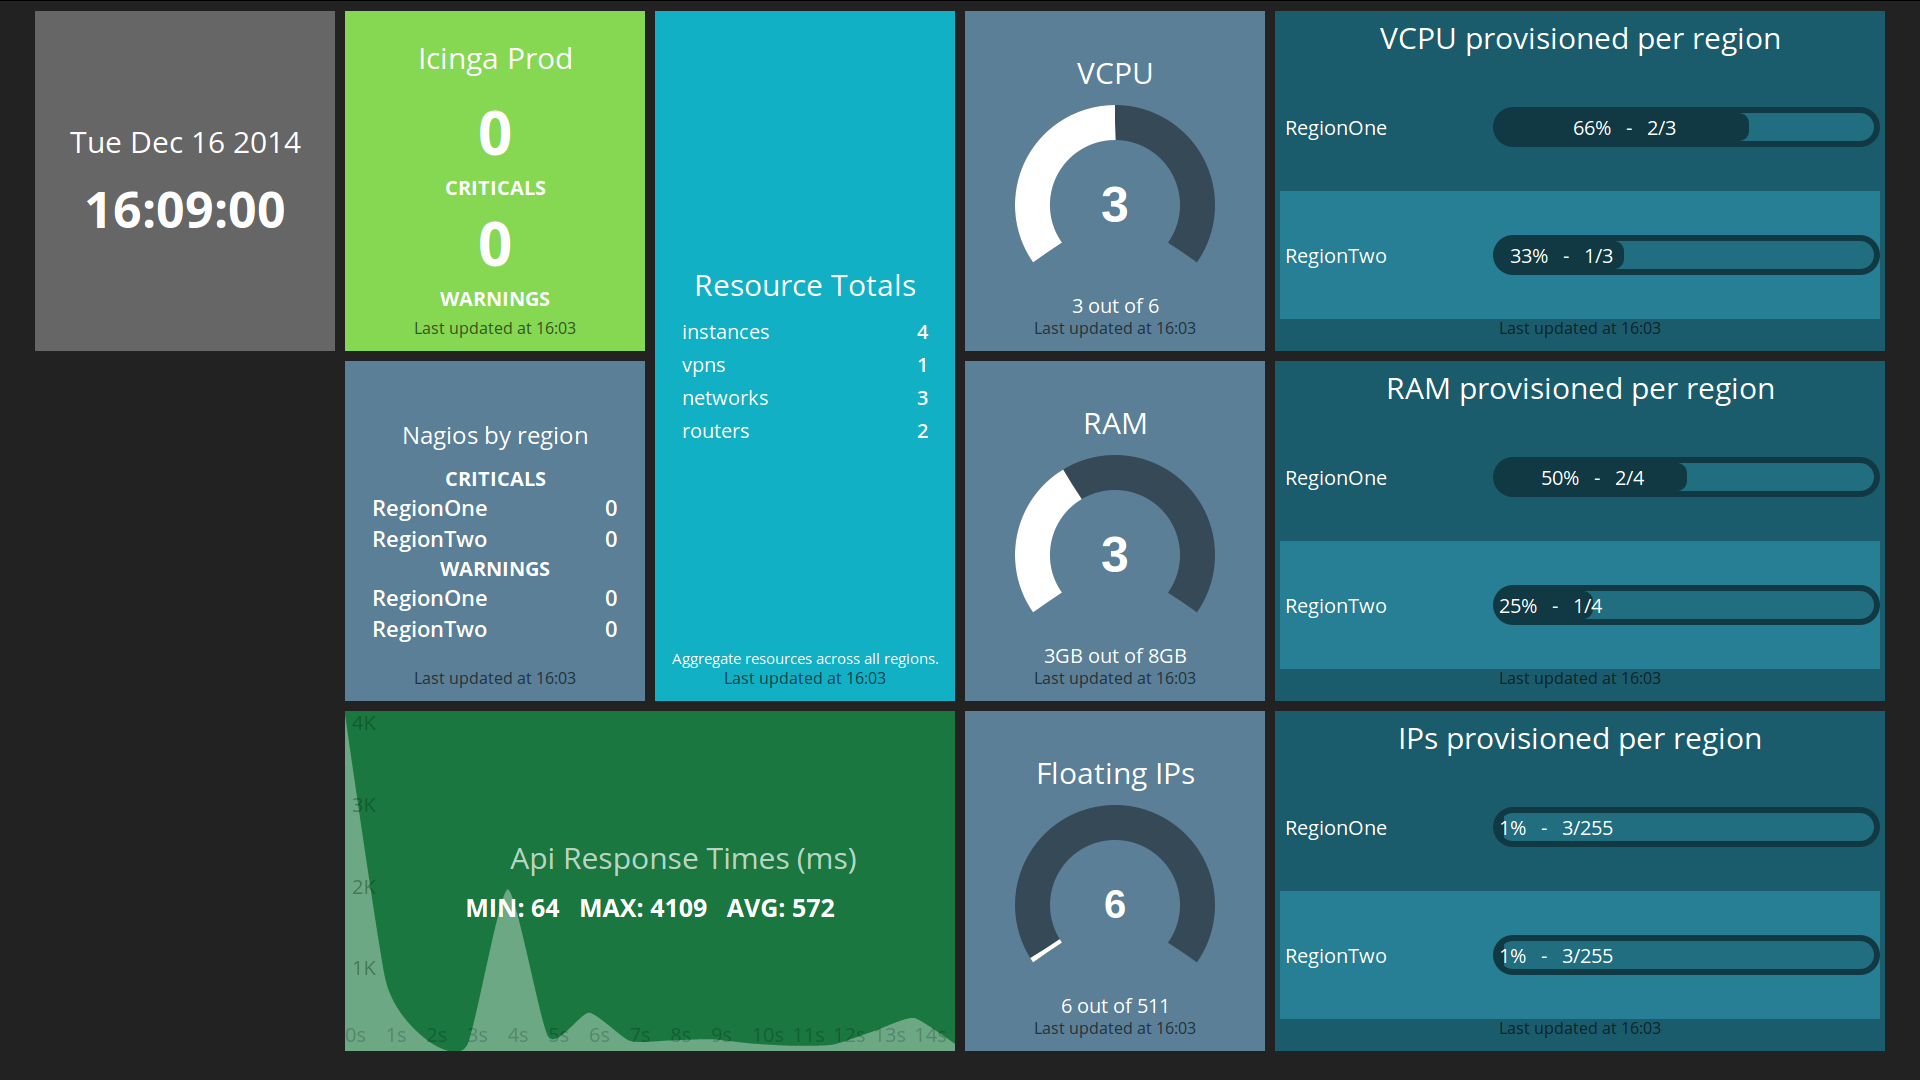
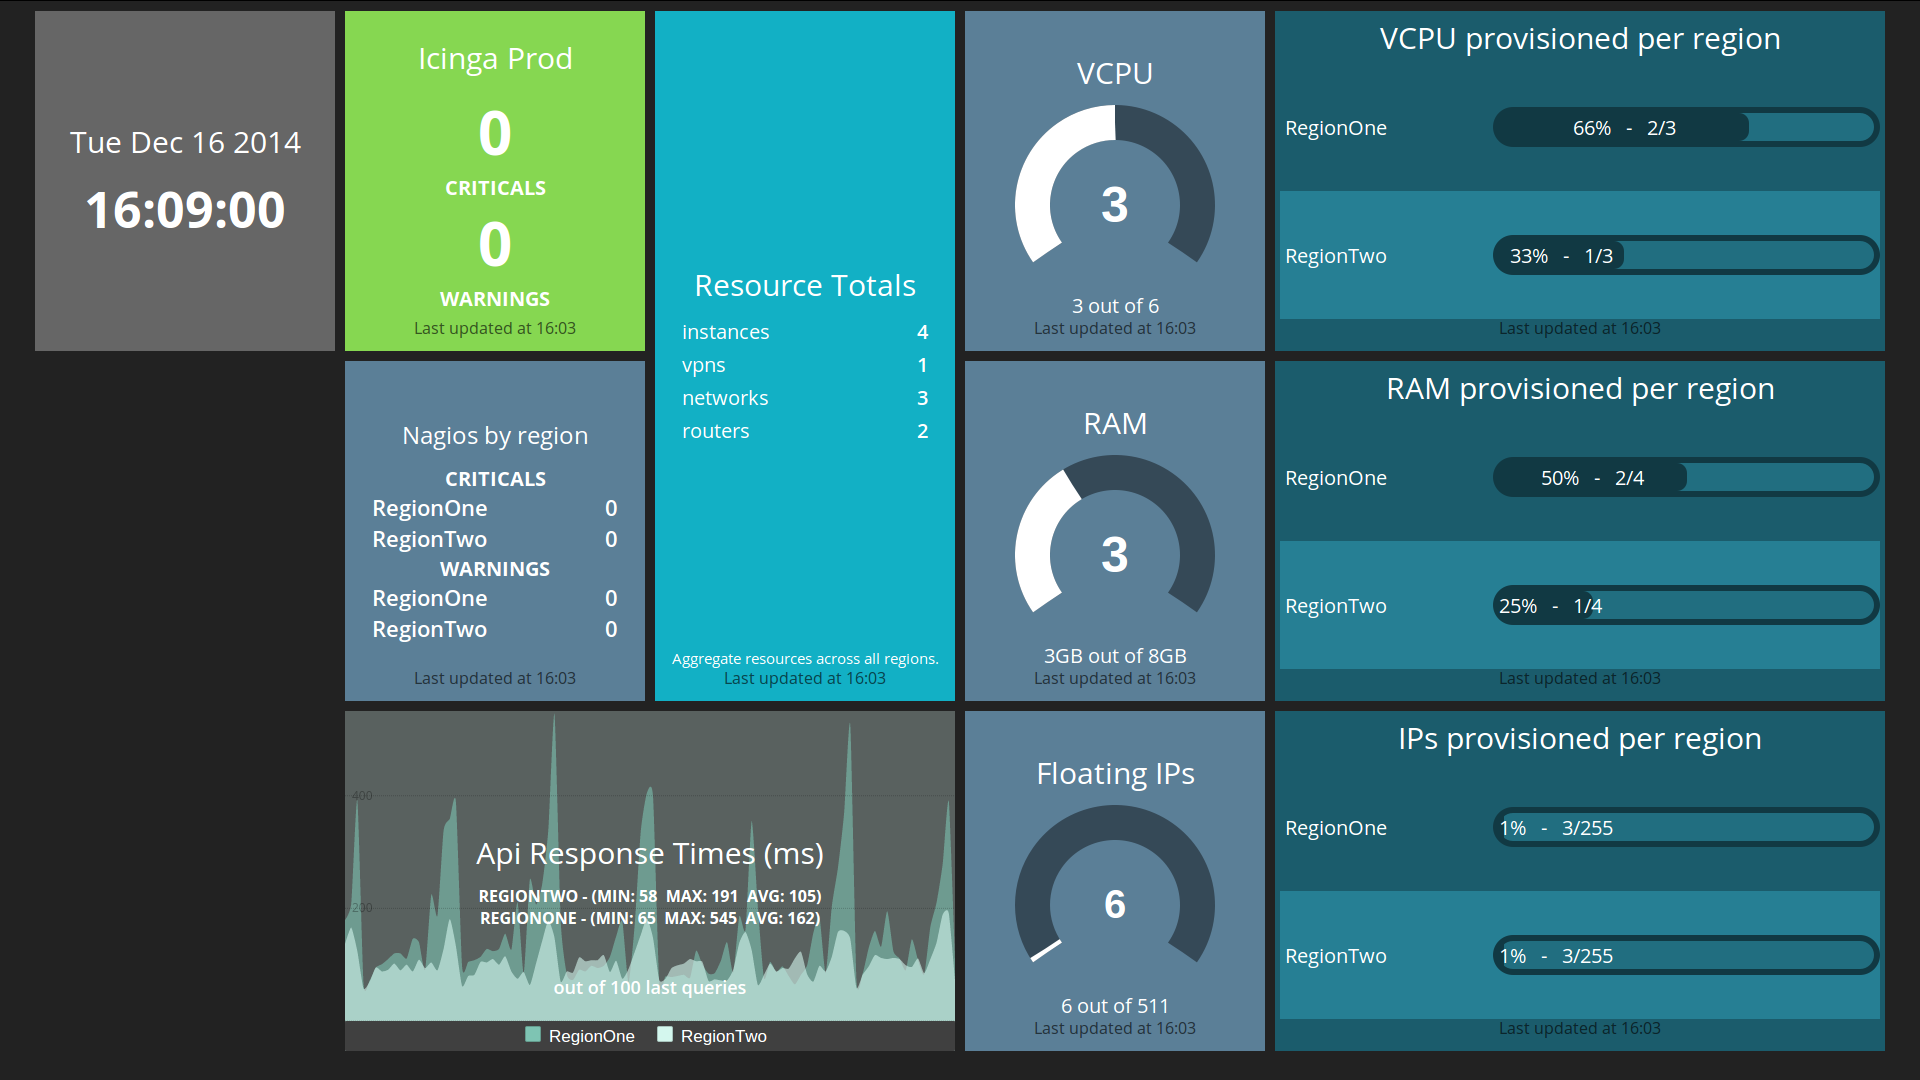
updating screenshot with new graph
also a few minor style changes

Changed region(s): [[0.1562, 0.6417, 0.5, 0.9778]]

diff --git a/pydashie/assets/stylesheets/application.css b/pydashie/assets/stylesheets/application.css
@@ -76,7 +76,7 @@
       white-space: pre; }
       .widget-rickshawgraph svg {
         position: absolute;
-        fill-opacity: 0.7;
+        fill-opacity: 0.6;
         left: 0px;
         top: 0px; }
         .widget-rickshawgraph .title, .widget-rickshawgraph .value {
@@ -85,7 +85,7 @@
           .widget-rickshawgraph .title {
             color: white; }
             .widget-rickshawgraph .more-info {
-              color: rgba(20, 20, 20, 0.8);
+              color: white;
               font-weight: 600;
               font-size: 18px;
               margin-top: 0;

diff --git a/pydashie/widgets/rickshawgraph/rickshawgraph.scss b/pydashie/widgets/rickshawgraph/rickshawgraph.scss
@@ -4,7 +4,7 @@
 $background-color:  #59615F;
 
 $title-color:       rgba(255, 255, 255, 1);
-$moreinfo-color:    rgba(20, 20, 20, 0.8);
+$moreinfo-color:    rgba(255, 255, 255, 1);
 $tick-color:        rgba(0, 0, 0, 1);
 
 
@@ -29,7 +29,7 @@ $tick-color:        rgba(0, 0, 0, 1);
 
   svg {
     position: absolute;
-    fill-opacity: 0.7;
+    fill-opacity: 0.6;
     left: 0px;
     top: 0px;
   }
